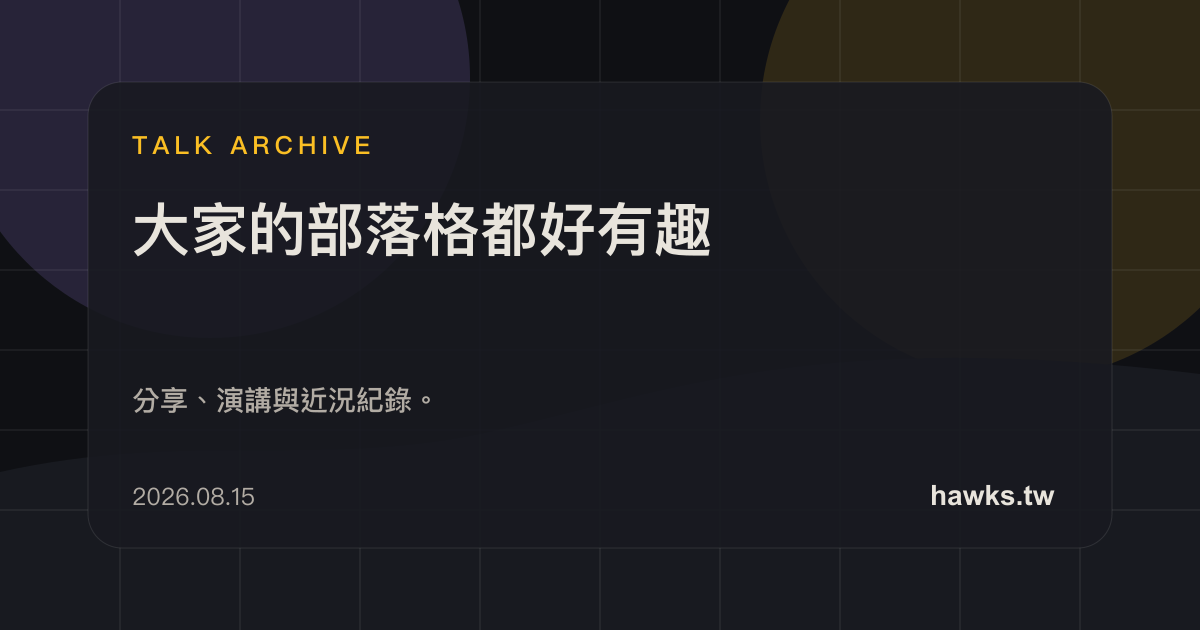
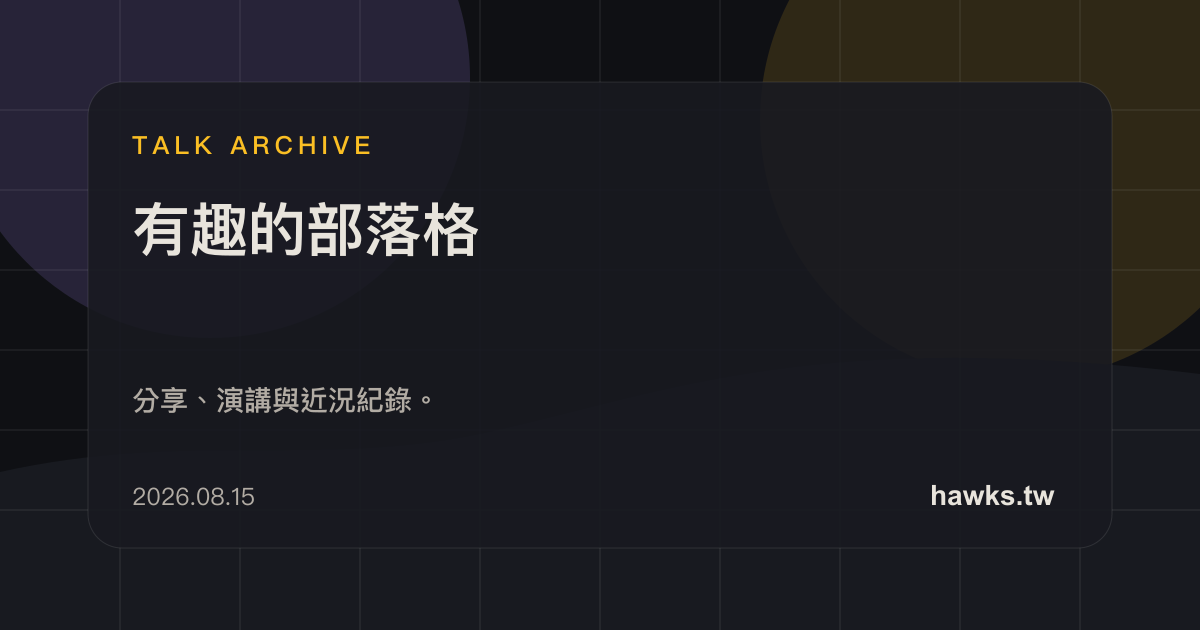
Talk: 2026-9-2

Changed region(s): [[0.4008, 0.3016, 0.6167, 0.4222], [0.0925, 0.3016, 0.2158, 0.4222]]

diff --git a/content/talks/2026-08-21.md b/content/talks/2026-08-21.md
@@ -1,0 +1,28 @@
+---
+title: HITCON Day 1!
+date: 2026-08-21
+event: ""
+banner: ""
+slides: ""
+video: ""
+relatedPosts: []
+ogImage: ""
+status: draft
+---
+我是在去年 HITCON 2025 第一次參與議程，當時因為忘記 Student Program 時程就自費來聽議程，雖然大概只聽懂三成但是這個議程聽的很舒服。
+
+今年算是被引薦到 HITCON 議程助理，一直以為 HITCON 是我不可接觸領域的我不小心就接了。
+
+Day 1
+直接一個睡過頭 7：40 才驚醒，但發現其實議程助理的時間算蠻充裕的所以還是很悠閒的在吃早餐。因為第一天早上幾乎是這兩天議程唯一沒有事情的行程，所以就先單獨去逛攤位，但是太社恐了所以決定先拉哥哥來逛。加到了很多人的 NFC
+
+午餐後是議程助理的第一個工作，一開始就直接來日文講者，不過到最後以沒有多少特別的溝通，以結果論算是順利。主要是整場的即時口譯都是壞掉的狀態，導致整個議程有點淒慘。
+
+### CTFusion: Catching AI Agents That Cheat at CTF and Streaming Live CTFs to Fix It
+這個議程在主持人介紹後發現跟我們做的 AIS3 專題題目方向超級相似，結果
+![[Pasted image 20260821162123.png]]
+對，原來台上就是我們參考的頂刊，很意外可以在 HITCON 看到韓國的神人，印象中他做的比較偏向是直接透過 frontier agent 直接打線上比賽以確保不會有污染的問題，但老實講我覺得就算是這樣也很難確保他的對照組可以跟線上的 CTF 比賽保持盡可能相似，這也是我在 AIS3 專題所苦惱的。
+
+本來想在會後交流，但是我的英文可能沒辦法 handle 而且感覺有很多人正在跟他說話所以我就卻步了（各種藉口
+
+Day 2

diff --git a/content/talks/2026-09-02.md b/content/talks/2026-09-02.md
@@ -1,0 +1,16 @@
+---
+title: "大安電資新生說明會！"
+date: "2026-09-02"
+event: ""
+banner: ""
+slides: ""
+video: ""
+relatedPosts: []
+ogImage: ""
+status: draft
+---
+今天是大安電研第 28th 和大安資安第 3rd 的第一次新生說明會，雖然這樣講起來有點老，但是能看到他們從去年看起來菜菜的樣子到自己籌備活動真的超級感動。
+
+之後應該會寫一篇關於在電資的感想（又在立旗）。
+
+總之希望今年的電資可以做的比我們更好owo

diff --git a/content/posts/HiPAC.md b/content/posts/HiPAC.md
@@ -5,6 +5,8 @@ desc: ""
 banner: /images/Pasted image 20260902020933.png
 tags:
   - "#blog"
+  - "#HPC"
+  - "#Machine-Learning"
 relatedTalks: []
 ogImage: ""
 status: published
